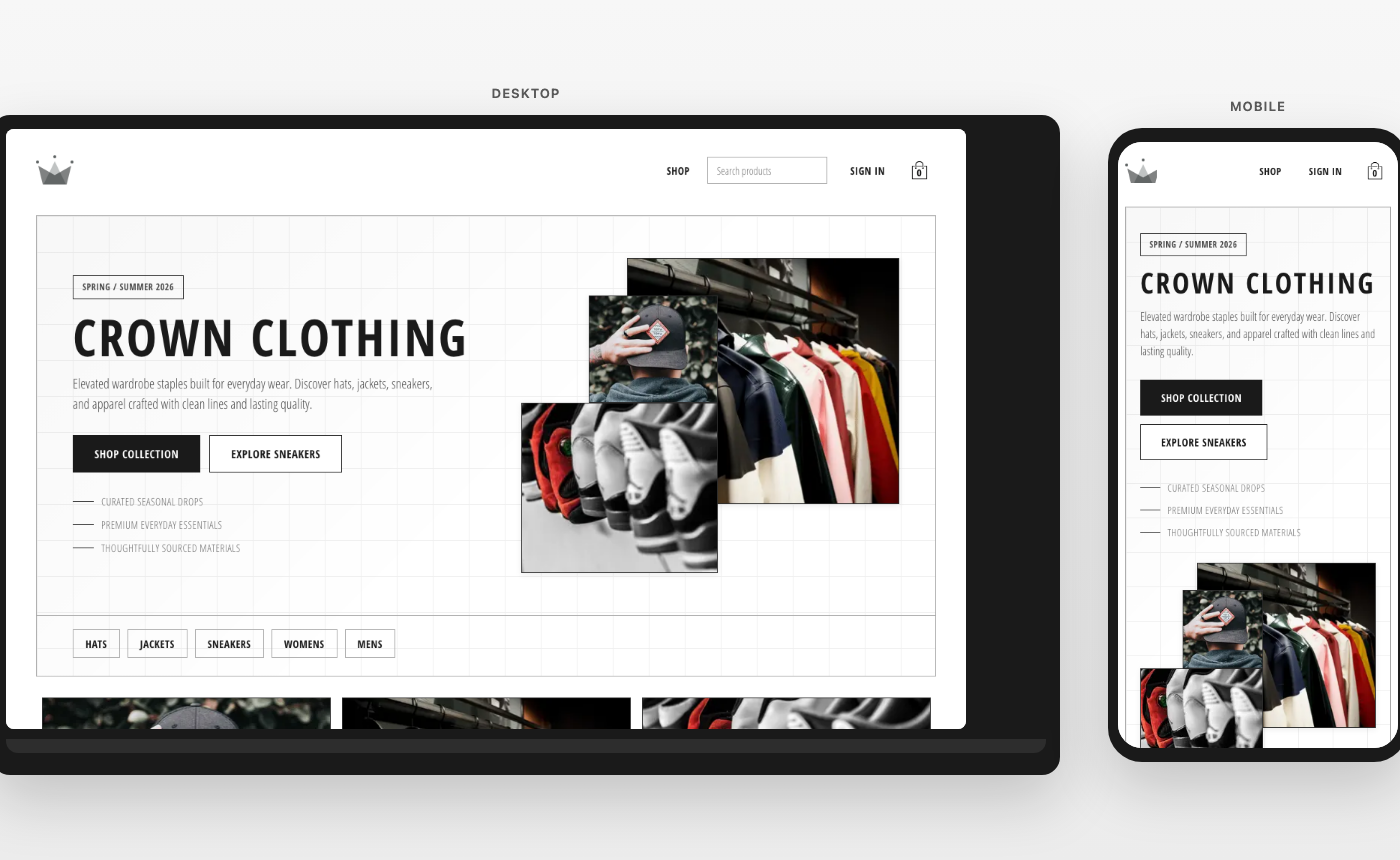
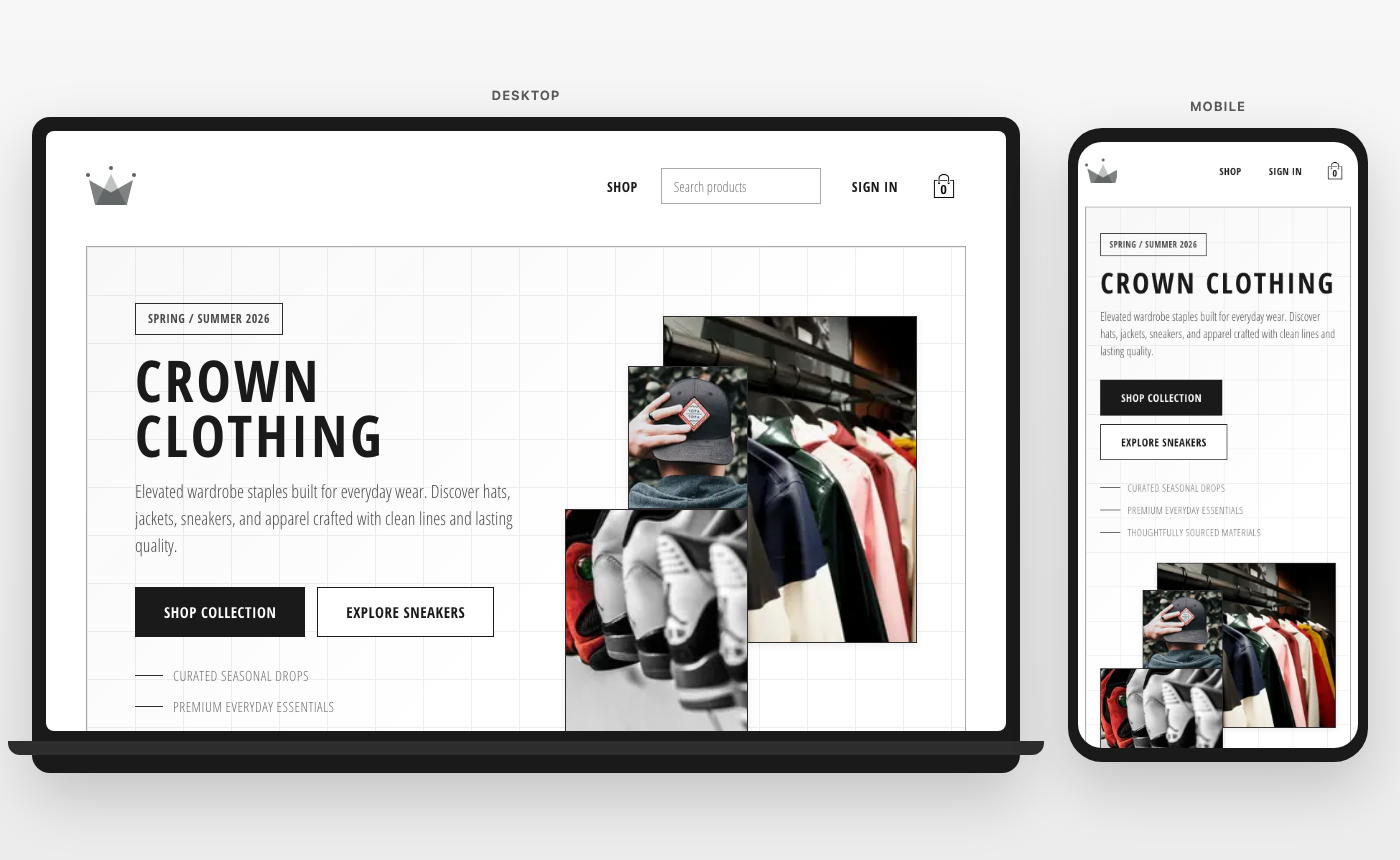
Fix dev script placement and center demo screenshots in device frames
Move the Fast Refresh log filter into root <head> to resolve the Next.js
script ordering error. Regenerate the README composite with screenshots
captured at frame aspect ratios and centered inside the black bezels.

diff --git a/app/layout.tsx b/app/layout.tsx
@@ -1,5 +1,4 @@
 import type { Metadata } from 'next';
-import Script from 'next/script';
 import { openSansCondensed, openSansCondensedBold } from '@/lib/fonts';
 import { SUPPRESS_FAST_REFRESH_LOGS_SCRIPT } from '@/lib/dev/suppress-fast-refresh-logs';
 import Providers from '@/providers/providers';
@@ -23,11 +22,14 @@ export default async function RootLayout({
 }>) {
   return (
     <html lang="en" className={openSansCondensed.variable}>
-      {process.env.NODE_ENV === 'development' && (
-        <Script id="suppress-fast-refresh-logs" strategy="beforeInteractive">
-          {SUPPRESS_FAST_REFRESH_LOGS_SCRIPT}
-        </Script>
-      )}
+      <head>
+        {process.env.NODE_ENV === 'development' && (
+          <script
+            id="suppress-fast-refresh-logs"
+            dangerouslySetInnerHTML={{ __html: SUPPRESS_FAST_REFRESH_LOGS_SCRIPT }}
+          />
+        )}
+      </head>
       <body className={openSansCondensed.className}>
         <Providers>
           <Navigation />
